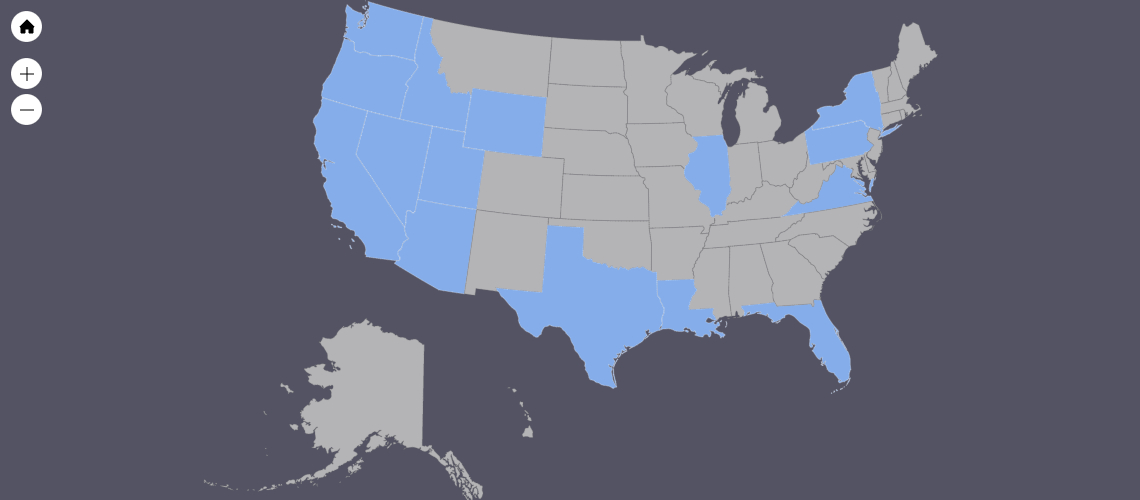
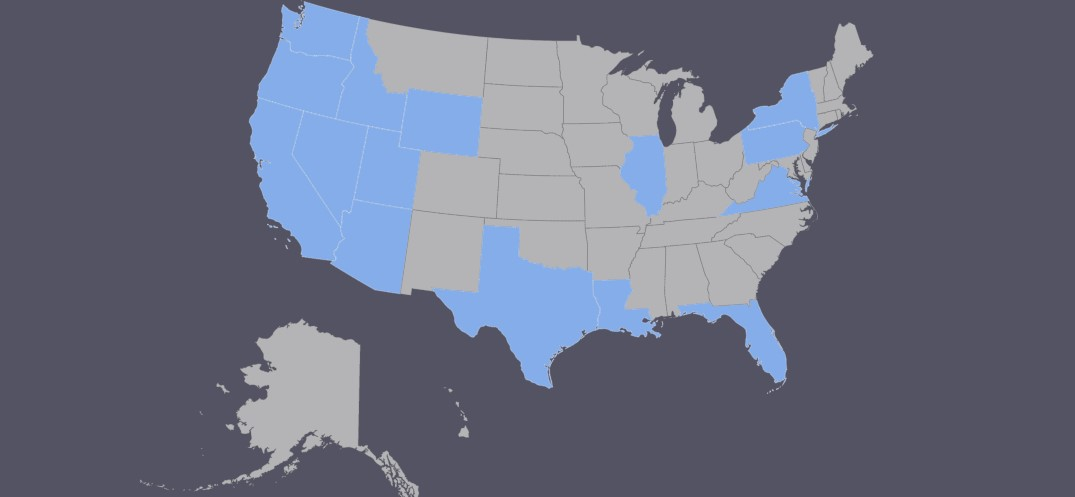
final save of the day

diff --git a/traveling.html b/traveling.html
@@ -4,15 +4,17 @@
   <meta charset="UTF-8">
   <meta name="viewport" content="width=device-width, initial-scale=1.0">
   <title>Places I've Been To</title>
+  <link rel="stylesheet" type="text/css" href="styles.css">
 </head>
 <body>
  <section>
-  <h1>Map of US showing where I've been to</h1>
-  <img src="US_Map.jpg" title="United States of America" width="1000" height="500" />
+   <!-- This is more or less a test of putting a style within the html code -->
+  <h1 style="color:rgb(8, 123, 255);">States I've Been To</h1>
+  <img src="US_Map.jpg" class="center" title="United States of America" width="1000" height="500"  />
  </section> 
 <section>
-  <h1>Map of world showing where I've been to</h1>
-  <img src="World_Map.jpg" title="World Map" width="1000" height="500" />
+  <h1 style="color:rgb(8,123,255);">Countries I've Been To</h1>
+  <img src="World_Map.jpg" class="center" title="World Map" width="1000" height="500" />
 </section>
 </body>
 </html>

diff --git a/styles.css b/styles.css
@@ -1,16 +1,23 @@
 html, body{
   margin: 0;
-  padding; 0;
+  padding: 0;
   color: #000;
+
+
 }
 
+header{
+  border-bottom: 1px solid black;
+}
 h1 {
-  background-color: grey;
-  color: white;
+  background-color: rgb(255, 255, 255);
+  color: rgb(49, 44, 44);
+  text-align: center;
 }
 
-h1:hover{
-  color:yellow);
+/* This is not working for some reason */
+h1 a:hover{
+  color:yellow;
 }
 
 h2 {
@@ -32,4 +39,16 @@ h4 {
 
 a:visited{
   color:#008000;
+}
+
+img{
+  align:middle
+}
+
+
+  .center {
+    display: block;
+    margin-left: auto;
+    margin-right: auto;
+    width: 50%;
 }

diff --git a/index.html b/index.html
@@ -1,7 +1,7 @@
 <!DOCTYPE html>
 <html>
   <head>
-    <title>About Me</title>
+    <title>Thomas' Portfolio</title>
 
     <link rel="stylesheet" type="text/css" href="styles.css">
   </head>
